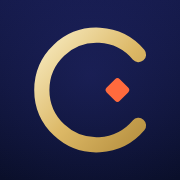
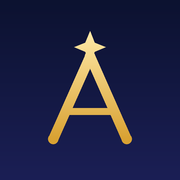
Add files via upload

diff --git a/index.html b/index.html
@@ -1,14 +1,14 @@
 <!doctype html>
 <html lang="fr"><head><meta charset="utf-8">
 <meta name="viewport" content="width=device-width, initial-scale=1, viewport-fit=cover">
-<title>Calix</title>
+<title>Astral</title>
 <link rel="manifest" href="manifest.webmanifest">
 <meta name="theme-color" content="#0c1230">
 <meta name="mobile-web-app-capable" content="yes"><meta name="apple-mobile-web-app-capable" content="yes">
-<meta name="apple-mobile-web-app-title" content="Calix"><meta name="apple-mobile-web-app-status-bar-style" content="black-translucent">
+<meta name="apple-mobile-web-app-title" content="Astral"><meta name="apple-mobile-web-app-status-bar-style" content="black-translucent">
 <link rel="icon" type="image/png" href="icon-192.png"><link rel="apple-touch-icon" href="apple-touch-icon.png">
 <link rel="preconnect" href="https://fonts.googleapis.com"><link rel="preconnect" href="https://fonts.gstatic.com" crossorigin>
-<link href="https://fonts.googleapis.com/css2?family=Barlow+Condensed:ital,wght@1,700;1,800&family=Inter:wght@400;500;600&display=swap" rel="stylesheet">
+<link href="https://fonts.googleapis.com/css2?family=Cinzel:wght@600&family=Barlow+Condensed:ital,wght@1,700;1,800&family=Inter:wght@400;500;600&display=swap" rel="stylesheet">
 <style>
 :root{--bg:#0c1230;--bg2:#1b1f55;--card:rgba(255,255,255,.07);--line:rgba(255,255,255,.14);--fg:#f3f5ff;--mut:#a3abd0;--ac:#ff6a3d;--gold:#ffc94d;--ok:#4be3a5;--cy:#5ee0ff;
 --disp:"Barlow Condensed","Arial Narrow",Impact,sans-serif;--sans:Inter,"Segoe UI",system-ui,sans-serif;
@@ -288,18 +288,30 @@ svg.rk{overflow:visible;display:block}
 .rkr{display:flex;align-items:center;gap:8px;margin-top:10px;font-size:13px;color:var(--gold)}
 .rkr svg{width:28px;height:28px;flex:none}
 @media (prefers-reduced-motion:reduce){.rk-spin,.rk-pu,.rk-tw,.rk-sh,.rko *{animation:none!important}.rk-tw{opacity:1}.rk-sh{display:none}}
+.brand{font:600 21px Cinzel,Georgia,serif;letter-spacing:.16em;text-transform:uppercase}.brand .am{width:30px;height:30px;flex:none}
+.sc2{border:1px solid var(--line);border-radius:20px;padding:14px 16px 16px;margin-top:12px;text-align:center}
+.rm{display:flex;justify-content:space-between;font-weight:600;font-size:14px}.hp3{color:#ff6a7a;letter-spacing:2px}
+.mo{width:170px;margin:10px auto 0;position:relative}.mo svg{width:100%;display:block}
+.mo.hit,.mo.hurt{animation:shk .35s}.mo.die{animation:die .8s forwards}
+.dmg{position:absolute;top:0;right:6px;font:italic 800 34px var(--disp);color:var(--gold);animation:upx .7s forwards}
+.mn{display:block;font:italic 800 24px var(--disp);margin:4px 0 8px}
+.sc2 small{color:var(--mut);font-size:12px;display:block;margin:3px 0 8px}
+#gc{width:132px;float:right;border-radius:12px;border:1px solid var(--line);margin-top:10px}
+@keyframes shk{25%{transform:translateX(-10px)}75%{transform:translateX(10px)}}
+@keyframes die{to{opacity:0;transform:scale(.6) translateY(20px)}}
+@keyframes upx{to{opacity:0;transform:translateY(-30px)}}
 </style>
 <script src="https://cdn.jsdelivr.net/npm/@mediapipe/pose@0.5.1675469404/pose.js"></script>
 </head>
 <body><div class="wrap">
-<header class="top"><div class="brand"><i></i>Calix</div><div class="hr"><button class="mini" id="rkb" data-rank aria-label="Mon rang"></button><button class="mini" id="tg" aria-label="Ouvrir mes séances"></button></div></header>
+<header class="top"><div class="brand"><svg class="am" viewBox="0 0 40 40" aria-hidden="true"><defs><linearGradient id="ag" x1="0" y1="0" x2="0" y2="1"><stop offset="0" stop-color="#ffe9a8"/><stop offset="1" stop-color="#d9a233"/></linearGradient></defs><path d="M20 9L8 36M20 9l12 27" stroke="url(#ag)" stroke-width="3.2" fill="none" stroke-linecap="round" stroke-linejoin="round"/><path d="M12.6 27h14.8" stroke="url(#ag)" stroke-width="2.2" stroke-linecap="round"/><path d="M20 .8l1.5 3.7 3.7 1.5-3.7 1.5L20 11.2l-1.5-3.7-3.7-1.5 3.7-1.5z" fill="#ffe9a8"/></svg>Astral</div><div class="hr"><button class="mini" id="rkb" data-rank aria-label="Mon rang"></button><button class="mini" id="tg" aria-label="Ouvrir mes séances"></button></div></header>
 <section id="pgA"><div class="hero"><p id="fig" class="wait">Choisis ta figure</p><p id="st">Choisis ta figure, puis lance la caméra ou importe une vidéo.</p></div>
 <label class="pick" for="sel">Figure à analyser</label><select id="sel"></select>
 <details class="dm" id="dm"><summary>Voir comment faire le mouvement</summary><div id="dmb"></div></details>
 <div class="stage"><canvas id="c" width="640" height="360"></canvas><video id="v" playsinline muted></video><div class="bar"><div id="bf"></div></div></div>
 <div class="row"><button id="cam">Caméra en direct</button><label class="b">Importer une vidéo<input id="file" type="file" accept="video/*"></label></div>
 <div class="row"><button id="flip" class="alt">Inverser l'image</button><button id="stop" class="alt">Arrêter</button></div>
-<div class="live"><div><b id="n">–</b><span>note finale / 100</span></div><div><b id="tm">0.0</b><span>secondes tenues</span></div></div>
+<div class="live"><div><b id="n">–</b><span id="l1">note finale / 100</span></div><div><b id="tm">0.0</b><span id="l2">secondes tenues</span></div></div>
 <div id="list"></div>
 <div id="res" class="res" hidden></div>
 <h3>Mes séances</h3>
@@ -309,8 +321,9 @@ svg.rk{overflow:visible;display:block}
 <section id="pgR" hidden><h3 style="margin-top:0">Mes records</h3><div id="stats"></div></section>
 <section id="pgS" hidden><div id="prog" class="pg"></div></section>
 <section id="pgP" hidden><div id="pgrog" class="pr"></div></section>
+<section id="pgD" hidden><div id="dj" class="pg"></div><canvas id="gc" width="160" height="90" hidden></canvas></section>
 </div>
-<nav class="tabs" aria-label="Navigation"><div><button class="tab on" data-p="analyse" aria-label="Analyse" title="Analyse"><svg viewBox="0 0 24 24" fill="none" stroke="currentColor" stroke-width="2.2" stroke-linecap="round" stroke-linejoin="round" aria-hidden="true"><circle cx="10.5" cy="10.5" r="6.5"/><path d="M21 21l-5.2-5.2"/></svg></button><button class="tab" data-p="seances" aria-label="Séances" title="Séances"><svg viewBox="0 0 24 24" fill="none" stroke="currentColor" stroke-width="2.2" stroke-linecap="round" stroke-linejoin="round" aria-hidden="true"><path d="M6.5 6.5v11M17.5 6.5v11M3.5 9.5v5M20.5 9.5v5M6.5 12h11"/></svg></button><button class="tab" data-p="progression" aria-label="Progression" title="Progression"><svg viewBox="0 0 24 24" fill="none" stroke="currentColor" stroke-width="2.2" stroke-linecap="round" stroke-linejoin="round" aria-hidden="true"><path d="M3 20h5v-5h5v-5h5V5h3"/></svg></button><button class="tab" data-p="stats" aria-label="Stats" title="Stats"><svg viewBox="0 0 24 24" fill="none" stroke="currentColor" stroke-width="2.2" stroke-linecap="round" stroke-linejoin="round" aria-hidden="true"><path d="M5 21V11M12 21V4M19 21v-8"/></svg></button></div></nav>
+<nav class="tabs" aria-label="Navigation"><div><button class="tab on" data-p="analyse" aria-label="Analyse" title="Analyse"><svg viewBox="0 0 24 24" fill="none" stroke="currentColor" stroke-width="2.2" stroke-linecap="round" stroke-linejoin="round" aria-hidden="true"><circle cx="10.5" cy="10.5" r="6.5"/><path d="M21 21l-5.2-5.2"/></svg></button><button class="tab" data-p="seances" aria-label="Séances" title="Séances"><svg viewBox="0 0 24 24" fill="none" stroke="currentColor" stroke-width="2.2" stroke-linecap="round" stroke-linejoin="round" aria-hidden="true"><path d="M6.5 6.5v11M17.5 6.5v11M3.5 9.5v5M20.5 9.5v5M6.5 12h11"/></svg></button><button class="tab" data-p="progression" aria-label="Progression" title="Progression"><svg viewBox="0 0 24 24" fill="none" stroke="currentColor" stroke-width="2.2" stroke-linecap="round" stroke-linejoin="round" aria-hidden="true"><path d="M3 20h5v-5h5v-5h5V5h3"/></svg></button><button class="tab" data-p="stats" aria-label="Stats" title="Stats"><svg viewBox="0 0 24 24" fill="none" stroke="currentColor" stroke-width="2.2" stroke-linecap="round" stroke-linejoin="round" aria-hidden="true"><path d="M5 21V11M12 21V4M19 21v-8"/></svg></button><button class="tab" data-p="donjon" aria-label="Donjon" title="Donjon"><svg viewBox="0 0 24 24" fill="none" stroke="currentColor" stroke-width="2.2" stroke-linecap="round" stroke-linejoin="round" aria-hidden="true"><path d="M5 21V10a7 7 0 0114 0v11M3 21h18M12 21v-6"/></svg></button></div></nav>
 <div class="ob" id="ob" hidden role="dialog" aria-modal="true" aria-label="Questionnaire de Volt"><div class="ob-in" id="obin"></div></div>
 <script>
 const $=s=>document.querySelector(s);
@@ -347,7 +360,7 @@ const UNL_SEC=20,UNL_SCORE=90;
 let pose=null,running=false,busy=false,stream=null,flip=true;
 let ema={},cand=null,act=null,lastT=0;
 const now=()=>stream?performance.now()/1000:v.currentTime;
-const status=t=>$('#st').textContent=t;
+const status=t=>{$('#st').textContent=t;const g=$('#gst');if(g)g.textContent=t};
 
 function metrics(lm,W,H){
   const L=[11,13,15,23,25,27],R=[12,14,16,24,26,28];
@@ -356,7 +369,7 @@ function metrics(lm,W,H){
   const P=i=>({x:lm[i].x*W,y:lm[i].y*H});
   const [s,e,w,h,k,a]=side.map(P),nose=P(0);
   const dir=Math.sign(nose.x-h.x)||1,t=Math.hypot(s.x-h.x,s.y-h.y)||1;
-  return{E:ang(s,e,w),H:ang(s,h,k),K:ang(h,k,a),B:hz(s,a),T:hz(s,h),L:(s.x-w.x)*dir/t,Hh:(s.y-h.y)/t,F:(w.y-a.y)/t,G:(h.y-a.y)/t,N:(w.y-nose.y)/t,W:(s.y-w.y)/t};
+  return{A:ang(s,h,a),E:ang(s,e,w),H:ang(s,h,k),K:ang(h,k,a),B:hz(s,a),T:hz(s,h),L:(s.x-w.x)*dir/t,Hh:(s.y-h.y)/t,F:(w.y-a.y)/t,G:(h.y-a.y)/t,N:(w.y-nose.y)/t,W:(s.y-w.y)/t};
 }
 function scoreFig(f,M){
   const parts=f[2].map(([m,lo,hi,mg,wt])=>({m,wt,lo,hi,val:M[m],f:band(M[m],lo,hi,mg)}));
@@ -386,7 +399,7 @@ function renderList(parts){
     return `<div class="c ${good?'ok':'ko'}"><b><span>${good?'✓':'✗'} ${mi[0]}</span><span>${Math.round(p.wt*p.f)}/${p.wt}</span></b><span class="t">${fm(p.val)} · cible ${fm(p.lo)} à ${fm(p.hi)}${good?'':' — '+(p.val<p.lo?mi[3]:mi[4])}</span></div>`}).join('');
 }
 function setHero(name,tmp){const h=$('#fig');$('.stage').classList.toggle('on',!!name);h.textContent=name||tmp||'En attente d\'une figure';h.className=name?'':'wait'}
-function miss(t){cand=null;if(act&&t-act.last>GRACE)finish()}
+function miss(t){if(rp&&t-rp.last>2.5)finishReps();cand=null;if(act&&t-act.last>GRACE)finish()}
 
 function finish(){
   const a=act;act=null;cand=null;ema={};lastT=0;
@@ -430,7 +443,7 @@ function addRec(id,avg,peak,dur,d){
 }
 if(!REC||typeof REC!=='object'){REC={};HIST.slice().reverse().forEach(e=>{if(e&&e.f)addRec(e.f,e.avg,e.peak,e.dur,e.d)});try{localStorage.setItem('fd_rec',JSON.stringify(REC))}catch(e){}}
 function renderHist(){
-  $('#hl').innerHTML=HIST.length?HIST.slice(0,8).map(e=>{const d=new Date(e.d);return`<div class="h"><span>${NAME[e.f]||e.f}<small>${d.toLocaleDateString('fr-FR')} ${d.toLocaleTimeString('fr-FR',{hour:'2-digit',minute:'2-digit'})}</small></span><span>${e.avg} / 100<small>${e.dur.toFixed(1)} s</small></span></div>`}).join(''):'<p style="color:var(--mut);font-size:14px;margin:6px 0">Aucune figure enregistrée pour le moment.</p>';
+  $('#hl').innerHTML=HIST.length?HIST.slice(0,8).map(e=>{const d=new Date(e.d);return`<div class="h"><span>${NAME[e.f]||e.f}<small>${d.toLocaleDateString('fr-FR')} ${d.toLocaleTimeString('fr-FR',{hour:'2-digit',minute:'2-digit'})}</small></span><span>${e.reps?e.reps+" reps":e.avg+" / 100"}<small>${e.reps?"forme "+e.avg+" / 100":e.dur.toFixed(1)+" s"}</small></span></div>`}).join(''):'<p style="color:var(--mut);font-size:14px;margin:6px 0">Aucune figure enregistrée pour le moment.</p>';
 }
 renderHist();
 $('#sel').innerHTML=FIGS.map(f=>`<option value="${f[0]}">${f[1]}</option>`).join('');
@@ -452,7 +465,7 @@ function stopAll(){
   running=false;
   if(stream){stream.getTracks().forEach(t=>t.stop());stream=null}
   v.pause();v.srcObject=null;v.removeAttribute('src');
-  if(act)finish();ema={};cand=null;
+  if(act)finish();if(rp)finishReps();ema={};cand=null;
 }
 async function loop(){
   if(!running)return;
@@ -484,9 +497,10 @@ function onRes(r){
   x.lineWidth=Math.max(3,W/160);x.strokeStyle='#4dd4ff';x.fillStyle='#ffd43b';
   BONES.forEach(([i,j])=>{if(lm[i].visibility>.4&&lm[j].visibility>.4){x.beginPath();x.moveTo(lm[i].x*W,lm[i].y*H);x.lineTo(lm[j].x*W,lm[j].y*H);x.stroke()}});
   [0,11,12,13,14,15,16,23,24,25,26,27,28].forEach(i=>{if(lm[i].visibility>.4){x.beginPath();x.arc(lm[i].x*W,lm[i].y*H,x.lineWidth*1.3,0,7);x.fill()}});
-  x.restore();
+  x.restore();if(GM.on)gx.drawImage(c,0,0,160,90);
   const M=metrics(lm,W,H);
   if(!M){miss(t);status('Filme-toi de profil, corps entier visible.');return}
+  if(GM.on||REPS[$('#sel').value]){trackReps(t,M);return}
   const f=FIGS.find(f=>f[0]===$('#sel').value),R={[f[0]]:scoreFig(f,M)};
   track(t,R);
 }
@@ -710,7 +724,7 @@ function mountAnim(el,key){
  LIVE.add(en);if(!anOn){anOn=1;requestAnimationFrame(anLoop)}
 }
 /* texte d'exercice -> animation (a) et figure analysable (f) */
-const XM=[[/^L-sit au sol/,'ls','ls'],[/pseudo-planche/,'pseudo','pll'],[/verticales|Superman|Arch hold/],[/^Pompes/,'pu'],[/^Dips/,'dip'],[/^Tractions/,'pull'],[/^Rowing|^Rows/,'row'],[/^Hollow/,'hollow'],[/genoux suspendu/,'kraise'],[/jambes tendues à la barre/,'lraise'],[/^Relevés de jambes/,'floor'],[/^Planche gainage/,'plank']];
+const XM=[[/^L-sit au sol/,'ls','ls'],[/pseudo-planche/,'pseudo','pll'],[/verticales|Superman|Arch hold/],[/^Pompes(?! pseudo| archer)/,'pu','pu'],[/^Dips/,'dip'],[/^Tractions/,'pull'],[/^Rowing|^Rows/,'row'],[/^Hollow/,'hollow'],[/genoux suspendu/,'kraise'],[/jambes tendues à la barre/,'lraise'],[/^Relevés de jambes/,'floor'],[/^Planche gainage/,'plank']];
 function meta(t){
  for(const f of FIGS)if(new RegExp('^'+f[1]+' : \\d').test(t))return{a:AN[f[0]]?f[0]:null,f:f[0]};
  for(const r of XM)if(r[0].test(t))return{a:r[1]||null,f:r[2]||null};
@@ -1231,5 +1245,61 @@ rkHead();
 if(PROF&&!LS.get('fd_rp')){rkCheck();setTimeout(()=>rkShow('start'),900)}
 if(!PROF&&!LS.get('fd_skip'))openOb();
 if('serviceWorker' in navigator&&/^https?:$/.test(location.protocol))window.addEventListener('load',()=>navigator.serviceWorker.register('sw.js').catch(()=>{}));
+
+/* ===== Astral : pompes comptées + donjon ===== */
+NAME.pu="Pompes";const REPS={pu:1};
+let RP=LS.get("astral_pu")||{best:0,tot:0,form:0,n:0},DJR=LS.get("astral_dj")||{room:0,reps:0},rp=null;
+const gc=$("#gc"),gx=gc.getContext("2d"),GM={on:0,dj:0};
+$("#sel").insertAdjacentHTML("beforeend",'<optgroup label="Répétitions"><option value="pu">Pompes</option></optgroup>');
+{const o=$("#sel").onchange;$("#sel").onchange=()=>{if(rp)finishReps();o();const r=!!REPS[$("#sel").value];$("#l1").textContent=r?"forme / 100":"note finale / 100";$("#l2").textContent=r?"répétitions comptées":"secondes tenues";$("#tm").textContent=r?"0":"0.0"}}
+function trackReps(t,M){
+ if(!(M.B<40&&M.A>120)){if(rp&&t-rp.last>2.5)finishReps();else if(!rp)status("Mets-toi en position de pompe, de profil, corps entier visible.");return}
+ if(!rp){rp={t0:t,last:t,reps:[],ph:"up",mn:180,al:180,top:0,e:M.E};if(!GM.on){$("#res").hidden=true;$("#list").innerHTML="";$("#n").textContent="…";$("#tm").textContent="0"}}
+ rp.last=t;const e=rp.e=rp.e*.5+M.E*.5;rp.mn=Math.min(rp.mn,e);rp.al=Math.min(rp.al,M.A);rp.top=Math.max(rp.top,e);
+ if(rp.ph==="up"&&e<115)rp.ph="down";
+ else if(rp.ph==="down"&&e>150){
+  rp.ph="up";
+  if(rp.mn<=105){const r={mn:rp.mn,al:rp.al,s:Math.round(100*(.5*band(rp.mn,0,90,35)+.35*band(rp.al,165,180,30)+.15*band(rp.top,165,180,25)))};rp.reps.push(r);$("#tm").textContent=rp.reps.length;status(rp.reps.length+" pompe"+(rp.reps.length>1?"s":"")+" !");if(GM.on)gmHit(r.s)}
+  else status("Pompe non comptée : descends plus bas (coudes à 90°).");
+  rp.mn=180;rp.al=180;rp.top=0;
+ }
+}
+function finishReps(){
+ const a=rp;rp=null;if(GM.on)return;
+ const n=a?a.reps.length:0;
+ if(!n){$("#n").textContent="–";$("#tm").textContent="0";status("Aucune pompe complète détectée.");return}
+ const sc=a.reps.map(r=>r.s),avg=Math.round(sc.reduce((q,w)=>q+w,0)/n),dp=a.reps.reduce((q,r)=>q+band(r.mn,0,90,35),0)/n,al=a.reps.reduce((q,r)=>q+band(r.al,165,180,30),0)/n;
+ const tip=dp<al?"Descends plus bas : vise des coudes à 90°.":"Garde le corps aligné : bassin ni trop haut, ni affaissé.",rec=n>RP.best&&RP.n>0,dur=+(a.last-a.t0).toFixed(1);
+ RP.best=Math.max(RP.best,n);RP.form=Math.max(RP.form,avg);RP.tot+=n;RP.n++;LS.set("astral_pu",RP);
+ $("#n").textContent=avg;$("#tm").textContent=n;$("#res").hidden=false;
+ $("#res").innerHTML=`<h2>Pompes</h2><div class="big">${n}<small> répétitions · forme ${avg} / 100</small></div>${rec?"<p><b>🏆 Nouveau record de répétitions !</b></p>":""}<p>Meilleure pompe ${Math.max(...sc)} / 100 · ${dur} s</p><p><b>À travailler :</b> ${tip}</p>`;
+ HIST.unshift({d:Date.now(),f:"pu",avg,peak:Math.max(...sc),dur,reps:n});HIST=HIST.slice(0,30);try{localStorage.setItem("fd_hist",JSON.stringify(HIST))}catch(e){}
+ renderHist();status("Série terminée. Reprends la position pour une nouvelle série.");
+}
+{const rs=renderStats;renderStats=function(){rs();if(RP.n)$("#stats").insertAdjacentHTML("beforeend",`<div class="rc"><h4>Pompes<small>${RP.n} série${RP.n>1?"s":""}</small></h4><div class="g"><div><b>${RP.best}</b><span>Record de répétitions</span></div><div><b>${RP.form}<i>/100</i></b><span>Meilleure forme</span></div></div><p class="m">${RP.tot} pompes au total${DJR.room?" · Donjon : salle "+DJR.room:""}</p></div>`)}}
+/* donjon */
+const DJ=[["Crypte","#2a2f6b",1,"Difficulté douce"],["Forêt maudite","#1d4d3a",1.4,"Monstres plus costauds"],["Volcan","#6b2a1f",1.8,"Pour les costauds"]];
+const MN=[["Gelée","#4be3a5"],["Chauve-souris","#a78bfa"],["Crâne","#e8e8f0"],["Gobelin","#8bd450"],["Spectre","#5ee0ff"],["Golem","#c08a5a"],["Diablotin","#ff6a3d"],["Dragon","#ffc94d"]];
+function monSvg(i,b){const c=MN[i%8][1],k=i%3;return `<svg viewBox="0 0 120 120" aria-hidden="true"><ellipse cx="60" cy="108" rx="34" ry="6" fill="#0006"/>${k==0?`<path d="M20 100Q14 40 60 30Q106 40 100 100Z" fill="${c}"/>`:k==1?`<path d="M60 24L96 44L104 92Q60 112 16 92L24 44Z" fill="${c}"/><path d="M30 40L18 14L46 32ZM90 40L102 14L74 32Z" fill="${c}"/>`:`<circle cx="60" cy="62" r="38" fill="${c}"/>`}<circle cx="45" cy="60" r="9" fill="#fff"/><circle cx="75" cy="60" r="9" fill="#fff"/><circle cx="47" cy="62" r="4" fill="#1b1f55"/><circle cx="73" cy="62" r="4" fill="#1b1f55"/><path d="M42 84Q60 96 78 84" stroke="#1b1f55" stroke-width="4" fill="none" stroke-linecap="round"/>${b?'<path d="M34 34L40 14L52 28L60 8L68 28L80 14L86 34Z" fill="#ffc94d"/>':""}</svg>`}
+function spawn(){const b=GM.room%5===0;GM.boss=b;GM.mon=MN[(GM.room-1)%8][0];GM.max=GM.hp=Math.round((3+GM.room*2)*DJ[GM.dj][2]*(b?1.6:1));GM.t=performance.now();GM.lim=GM.room===1?25:10;dj()}
+function gmHit(s){const d=s>=85?2:1;GM.reps++;GM.hp=Math.max(0,GM.hp-d);GM.t=performance.now();GM.fx="hit";GM.dmg=d;
+ if(GM.hp<=0){GM.room++;GM.fx="die";dj();setTimeout(()=>{if(GM.on)spawn()},900)}else dj()}
+function gmTick(){if(!GM.on||GM.hp<=0)return;const l=GM.lim-(performance.now()-GM.t)/1000;
+ if(l<=0){GM.hearts--;GM.t=performance.now();GM.lim=10;GM.fx="hurt";if(GM.hearts<=0){gmEnd();return}dj();return}
+ const b=$("#gch");if(b)b.style.width=Math.max(0,l/GM.lim*100)+"%"}
+function gmStop(){GM.on=0;clearInterval(GM.iv);rp=null;stopAll()}
+function gmEnd(){DJR.room=Math.max(DJR.room,GM.room);DJR.reps+=GM.reps;LS.set("astral_dj",DJR);GM.over=1;gmStop();dj()}
+async function gmGo(){
+ stopAll();if(!await init())return;
+ try{stream=await navigator.mediaDevices.getUserMedia({video:{facingMode:"user",width:{ideal:1280}}});v.srcObject=stream;await v.play();running=true;loop()}
+ catch(e){status("Caméra inaccessible : autorise-la dans ton navigateur.");return}
+ Object.assign(GM,{on:1,room:1,hearts:3,reps:0,over:0,fx:""});spawn();GM.iv=setInterval(gmTick,250)}
+function dj(){
+ const d=$("#dj"),T=DJ[GM.dj];gc.hidden=!GM.on;
+ if(!GM.on){d.innerHTML=`<div class="pghead"><h2>Donjon</h2></div><p class="sub">Chaque pompe complète blesse le monstre. Reste actif : s'il charge son attaque, tu perds un cœur.</p>${GM.over?`<div class="res"><h2>Défaite !</h2><div class="big">${GM.room}<small> salle atteinte · ${GM.reps} pompes</small></div></div>`:""}${DJR.room?`<p class="note">Record : salle ${DJR.room} · ${DJR.reps} pompes dans les donjons</p>`:""}<div class="opts">${DJ.map((q,i)=>`<button class="opt${i==GM.dj?" sel":""}" data-dj="${i}">${q[0]}<small>${q[3]}</small></button>`).join("")}</div><button class="fin" id="gmgo">Entrer dans le donjon</button><p id="gst" class="note">Pose le téléphone au sol, de profil, corps entier visible.</p>`;return}
+ d.innerHTML=`<div class="sc2" style="background:linear-gradient(180deg,${T[1]},#05081c)"><div class="rm"><span>${T[0]} · Salle ${GM.room}</span><span class="hp3">${"♥".repeat(GM.hearts)+"♡".repeat(3-GM.hearts)}</span></div><div class="mo ${GM.fx}">${monSvg(GM.room-1,GM.boss)}${GM.fx==="hit"?`<i class="dmg">-${GM.dmg}</i>`:""}</div><b class="mn">${GM.boss?"Boss · ":""}${GM.mon}</b><div class="pbar"><i style="width:${GM.hp/GM.max*100}%"></i></div><small>${GM.hp} / ${GM.max} PV · pompe propre = coup critique</small><div class="pbar"><i id="gch" style="width:100%;background:#ff6a7a"></i></div><small>Charge de l'attaque du monstre</small></div><p id="gst" class="note"></p><button class="alt fin" id="gmx">Quitter le donjon</button>`;GM.fx="";
+}
+$("#dj").onclick=e=>{const b=e.target.closest("button");if(!b)return;if(b.dataset.dj!=null){GM.dj=+b.dataset.dj;dj()}else if(b.id==="gmgo")gmGo();else if(b.id==="gmx"){GM.over=0;gmStop();dj()}};
+{const g0=go;go=function(p){if(p!=="donjon"&&GM.on)gmStop();g0(p);const d=p==="donjon";$("#pgD").hidden=!d;if(d){$("#pgA").hidden=true;dj();try{history.replaceState(null,"","#donjon")}catch(e){}}document.querySelectorAll(".tab").forEach(b=>{const on=b.dataset.p===p;b.classList.toggle("on",on);b.setAttribute("aria-current",on?"page":"false")})}}
 </script>
 </body></html>

diff --git a/sw.js b/sw.js
@@ -1,4 +1,4 @@
-const CACHE='calix-v9';
+const CACHE='astral-v1';
 const SHELL=['./','index.html','manifest.webmanifest','icon-192.png','icon-512.png'];
 self.addEventListener('install',e=>{
   e.waitUntil(caches.open(CACHE).then(c=>c.addAll(SHELL)).then(()=>self.skipWaiting()));
